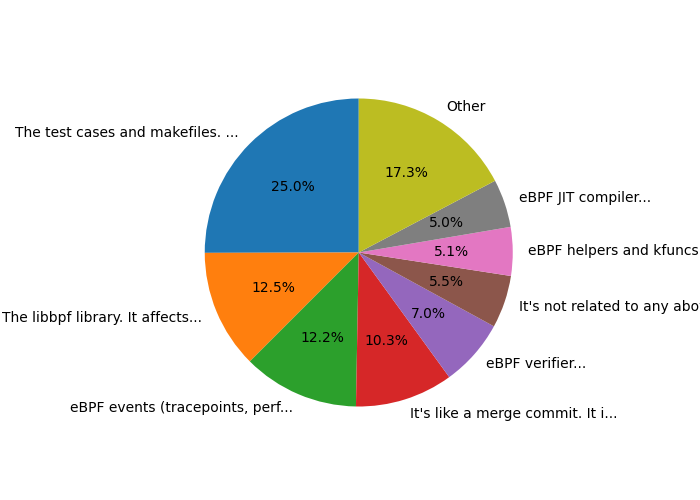
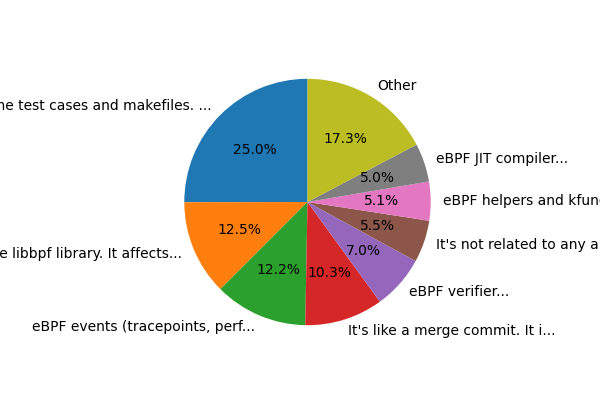
updtae

diff --git a/analysis/bpf/pie_commits.py b/analysis/bpf/pie_commits.py
@@ -18,10 +18,10 @@ def plot_commit_classification_pie():
         value_counts = value_counts[:max_labels]._append(pd.Series([value_counts[max_labels:].sum()], index=['Other']))
 
     # Truncate labels for better readability
-    truncated_labels = [label[:20] + '...' if len(label) > 10 else label for label in value_counts.index]
+    truncated_labels = [label[:15] + '...' if len(label) > 10 else label for label in value_counts.index]
 
     # Plot the pie chart
-    fig, ax = plt.subplots(figsize=(7, 5))
+    fig, ax = plt.subplots(figsize=(6, 4))
     ax.pie(value_counts, labels=truncated_labels, autopct='%1.1f%%', startangle=90)
     # ax.set_title('Commit Classification', fontsize=12)
     
@@ -40,10 +40,10 @@ def plot_commit_complexity_pie():
         value_counts = value_counts[:max_labels]._append(pd.Series([value_counts[max_labels:].sum()], index=['Other']))
 
     # Truncate labels for better readability
-    truncated_labels = [label[:20] + '...' if len(label) > 10 else label for label in value_counts.index]
+    truncated_labels = [label[:15] + '...' if len(label) > 10 else label for label in value_counts.index]
 
     # Plot the pie chart
-    fig, ax = plt.subplots(figsize=(7, 5))
+    fig, ax = plt.subplots(figsize=(6, 4))
     ax.pie(value_counts, labels=truncated_labels, autopct='%1.1f%%', startangle=90)
     # ax.set_title('Commit Complexity', fontsize=12)
     
@@ -78,7 +78,7 @@ def plot_implementation_component_pie():
     truncated_labels = [label[:30] + '...' if len(label) > 10 else label for label in value_counts.index]
 
     # Plot the pie chart
-    fig, ax = plt.subplots(figsize=(7, 5))
+    fig, ax = plt.subplots(figsize=(6, 4))
     ax.pie(value_counts, labels=truncated_labels, autopct='%1.1f%%', startangle=90)
     
     # Save the figure
@@ -96,10 +96,10 @@ def plot_logic_component_pie():
         value_counts = value_counts[:max_labels]._append(pd.Series([value_counts[max_labels:].sum()], index=['Other']))
 
     # Truncate labels for better readability
-    truncated_labels = [label[:20] + '...' if len(label) > 10 else label for label in value_counts.index]
+    truncated_labels = [label[:15] + '...' if len(label) > 10 else label for label in value_counts.index]
 
     # Plot the pie chart
-    fig, ax = plt.subplots(figsize=(7, 5))
+    fig, ax = plt.subplots(figsize=(6, 4))
     ax.pie(value_counts, labels=truncated_labels, autopct='%1.1f%%', startangle=90)
     # ax.set_title('Major Logic Component', fontsize=12)
     
@@ -144,10 +144,10 @@ def plot_usecases_or_submodule_pie():
         value_counts = value_counts[:max_labels]._append(pd.Series([value_counts[max_labels:].sum()], index=['Other']))
 
     # Truncate labels for better readability
-    truncated_labels = [label[:20] + '...' if len(label) > 10 else label for label in value_counts.index]
+    truncated_labels = [label[:15] + '...' if len(label) > 10 else label for label in value_counts.index]
 
     # Plot the pie chart
-    fig, ax = plt.subplots(figsize=(7, 5))
+    fig, ax = plt.subplots(figsize=(6, 4))
     ax.pie(value_counts, labels=truncated_labels, autopct='%1.1f%%', startangle=90)
     # ax.set_title('Use Cases or Submodule Events', fontsize=12)
     

diff --git a/analysis/bpf/timeline_commits_3m.py b/analysis/bpf/timeline_commits_3m.py
@@ -131,7 +131,7 @@ def plot_frequency_timeline(field_name, title, max_labels, threshold, save_path)
     ax.set_xlabel('Time (3-Month Intervals)', fontsize=14)
     ax.set_ylabel('Number of Commits', fontsize=14)
 
-    truncated_labels = [label[:20] + '...' if len(label) > 20 else label for label in monthly_counts.columns]
+    truncated_labels = [label[:15] + '...' if len(label) > 20 else label for label in monthly_counts.columns]
 
     ax.legend(truncated_labels, loc='upper left', bbox_to_anchor=(1,1))  # Place legend outside the plot
 
@@ -195,7 +195,7 @@ def plot_usecases_timeline(title, save_path, max_labels=8, threshold=0.005):
     ax.set_ylabel('Number of Commits', fontsize=14)
 
     # Truncate long labels for the legend
-    truncated_labels = [label[:20] + '...' if len(label) > 20 else label for label in monthly_counts.columns]
+    truncated_labels = [label[:15] + '...' if len(label) > 20 else label for label in monthly_counts.columns]
 
     # Add the legend with truncated labels
     ax.legend(truncated_labels, loc='upper left', bbox_to_anchor=(1, 1))  # Place legend outside the plot
